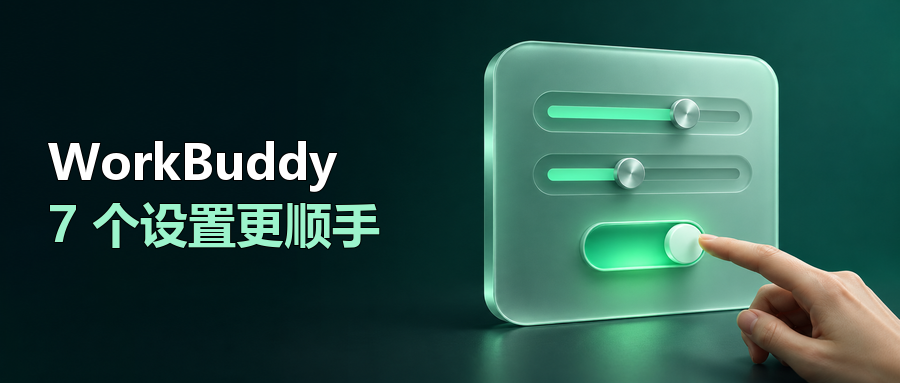
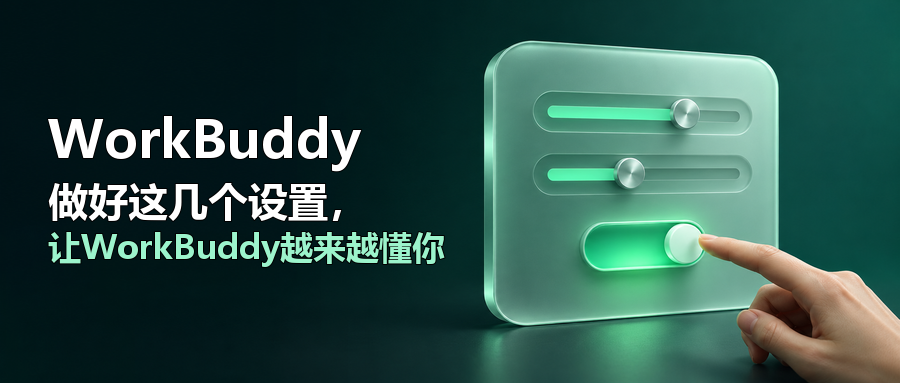
docs: use the full article title on the WorkBuddy cover

Changed region(s): [[0.0311, 0.2872, 0.4978, 0.6893]]

diff --git a/wiki/log.md b/wiki/log.md
@@ -1731,3 +1731,7 @@
 
 - 以定稿文章的七处设置为依据，将封面短标题排为「WorkBuddy」与「7 个设置更顺手」两行。使用 ImageGen 生成无字设置面板背景，再由封面技能排字，交付 900 × 383 PNG 至 `output/workbuddy-wechat-layout-20261118/WorkBuddy-公众号封面.png`。
 - 核对正式尺寸和 300 像素缩略图，封面排字测试通过。
+
+## [2026-11-18] article-cover | WorkBuddy 封面使用完整文章标题
+
+- 封面换成完整标题「WorkBuddy 做好这几个设置，让WorkBuddy越来越懂你」，分三行排版。沿用原背景，保留 900 × 383 PNG 尺寸。已核对标题、原画面和 300 像素缩略图。
